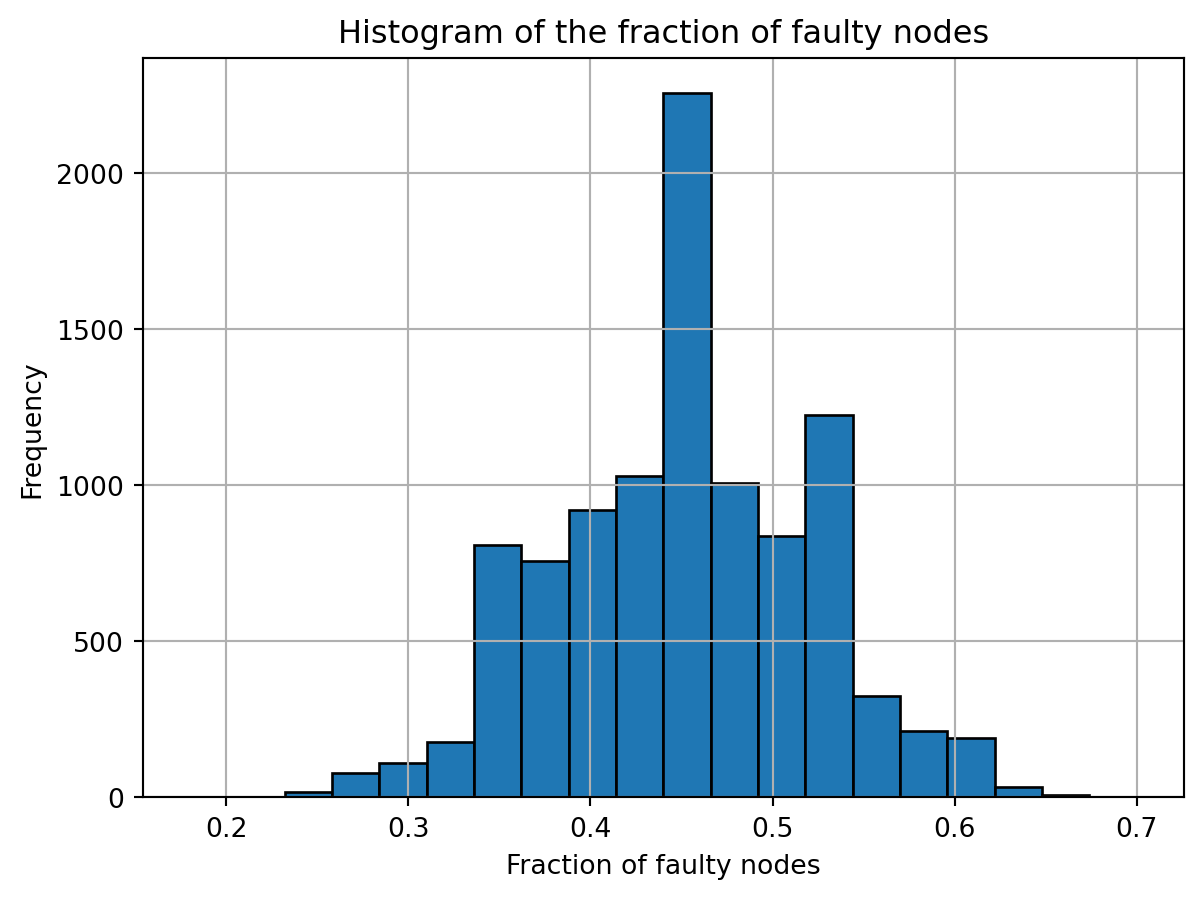
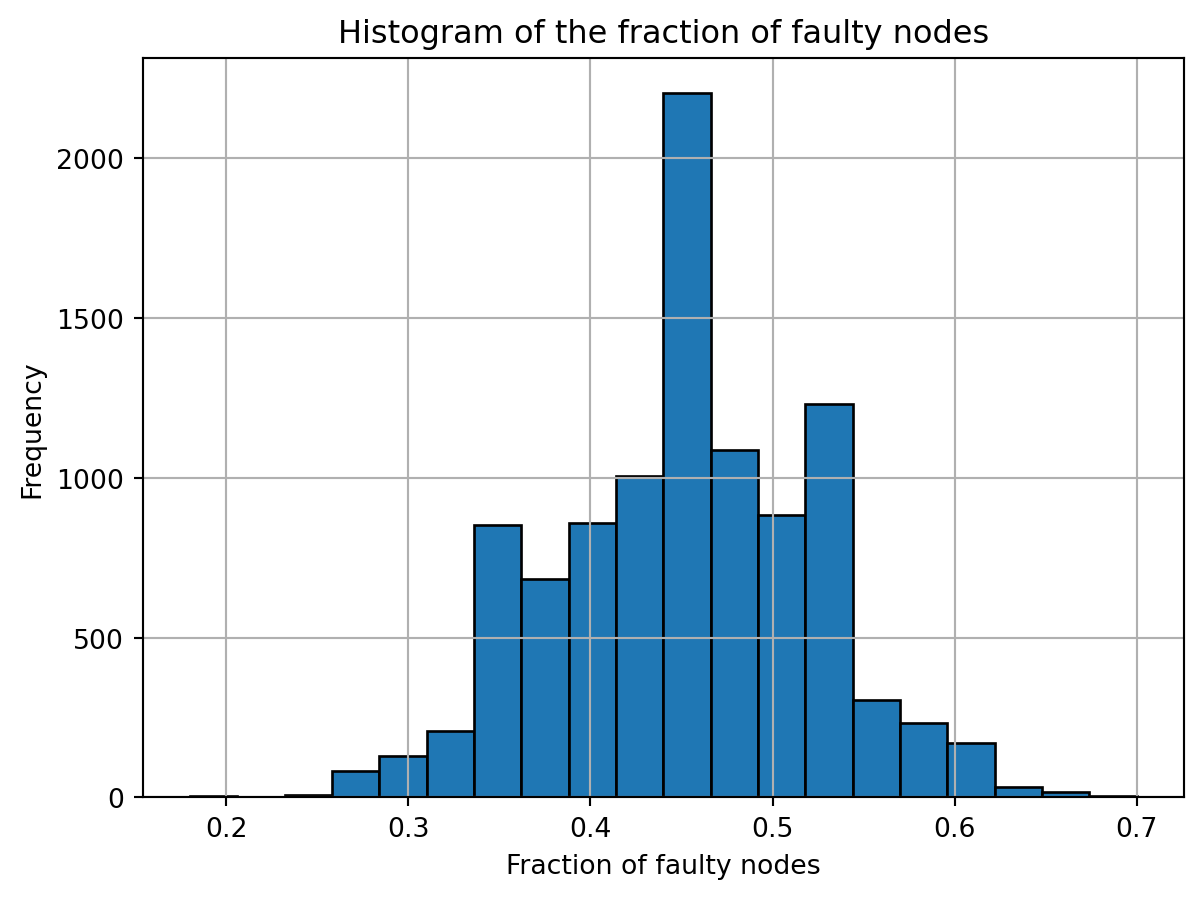
Add files via upload

diff --git a/08-tullock-contest.html b/08-tullock-contest.html
@@ -349,7 +349,7 @@ g_2(x) = 2 \cdot \frac{x}{8/9 + x} - x
   background-color: #ffffff;
 }
 </style>
-<div id="03c01f7c" class="cell" data-execution_count="1">
+<div id="f6c16913" class="cell" data-execution_count="1">
 <details class="code-fold">
 <summary>Show code generating the plot below</summary>
 <div class="sourceCode cell-code" id="cb1"><pre class="sourceCode python code-with-copy"><code class="sourceCode python"><span id="cb1-1"><a href="#cb1-1" aria-hidden="true" tabindex="-1"></a><span class="im">import</span> numpy <span class="im">as</span> np</span>
@@ -457,11 +457,11 @@ Exercise 8.2
 p_1(\mu) = w_1 \cdot \frac{\mu_1}{\mu_1 + \mu_2} - \mu_1 \ \text{ and } \ p_2(\mu) = w_2 \cdot \frac{\mu_2}{\mu_1 + \mu_2} - \mu_2.
 </span> Compute the (unique) pure Nash equilibrium <span class="math inline">\mu = (\mu_1,\mu_2)</span> of this Tullock contest by deriving explicit formulas for <span class="math inline">\mu_1 = \mu_1(w_1,w_2)</span> and <span class="math inline">\mu_2 = \mu_2(w_1,w_2)</span>, i.e., the equilibrium hash rates in terms of <span class="math inline">w_1</span> and <span class="math inline">w_2</span>. You can use the following steps for this:</p>
 <ol type="1">
-<li>Show that if one or both of the <span class="math inline">\mu_i</span> equal zero, then <span class="math inline">\mu = (\mu_1,\mu_2)</span> cannot be a pure Nash equilibrium. <em>Recall that the best response against the all-zeros vector <span class="math inline">\mu_{-i}</span> was defined as a (sufficiently) small number <span class="math inline">\delta &gt; 0</span>.</em></li>
-<li>Argue next that if the game has a pure Nash equilibrium, then it is necessary that the following <em>first-order conditions</em> are satisfied: <span class="math display">
+<li>Show that if one or both of the <span class="math inline">\mu_i</span> equal zero, then <span class="math inline">\mu = (\mu_1,\mu_2)</span> cannot be a pure Nash equilibrium.</li>
+<li>Argue next that <span class="math inline">\mu</span> is a pure Nash equilibrium if and only if the following <em>first-order conditions</em> are satisfied: <span class="math display">
 \frac{\partial p_1}{\partial \mu_1}(\mu) = 0 \ \text{ and }\  \frac{\partial p_2}{\partial \mu_2}(\mu) = 0.
 </span></li>
-<li>Solve the first-order conditions for <span class="math inline">\mu_1</span> and <span class="math inline">\mu_2</span> in terms of <span class="math inline">w_1</span> and <span class="math inline">w_2</span>. Argue that if <span class="math inline">\mu_1(w_1,w_2),\mu_2(w_1,w_2) &gt; 0</span>, then satisfying the first-order conditions is also sufficient for <span class="math inline">(\mu_1,\mu_2)</span> to be a pure Nash equilibrium.</li>
+<li>Solve the first-order conditions for <span class="math inline">\mu_1</span> and <span class="math inline">\mu_2</span> in terms of <span class="math inline">w_1</span> and <span class="math inline">w_2</span>.</li>
 </ol>
 </div>
 </div>
@@ -482,8 +482,9 @@ p_1(\mu) = w_1 \cdot \frac{\mu_1}{\mu_1 + \mu_2} - \mu_1 \ \text{ and } \ p_2(\m
 \mu = (\mu_1,\dots,\mu_{\hat{n}},0,0,\dots,0).
 </span></p>
 <p>There exists an explicit formula known for <span class="math inline">\hat{n}</span>, namely <span id="eq-hat_n"><span class="math display">
-\hat{n} = \max\left\{i \in \mathbb{N} : w_i &gt; \frac{i-2}{\sum_{j=1}^{i-1} \frac{1}{w_j}} \right\}.
-\tag{8.1}</span></span> In other words, <span class="math inline">\hat{n}</span> is the largest index <span class="math inline">i</span> for which the inequality <span class="math inline">w_i &gt; \frac{i-2}{\sum_{j=1}^{i-1} \frac{1}{w_j}}</span> holds.</p>
+\hat{n} = \max\left\{i \in [n] : w_i &gt; \frac{i-2}{\sum_{j=1}^{i-1} \frac{1}{w_j}} \right\}.
+\tag{8.1}</span></span> In other words, <span class="math inline">\hat{n}</span> is the largest index <span class="math inline">i</span> for which the inequality <span class="math inline">w_i &gt; \frac{i-2}{\sum_{j=1}^{i-1} \frac{1}{w_j}}</span> holds. We use the convention that <span class="math inline">\sum_{j=1}^0  \frac{1}{w_j} = 1</span>.</p>
+<p>Note that for any values of <span class="math inline">w_1,\dots,w_n</span> we have <span class="math inline">\hat{n} \geq 2</span>. This corresponds with the fact that in a pure Nash equilibrium, there will always be at least to miners with a strictly positive hash rate.</p>
 <p>Note that <span class="math inline">\hat{n}</span> can be computed using only the input parameters <span class="math inline">w_1, \dots, w_n</span> of the Tullock contest. Also observe that we always have <span class="math inline">\hat{n} \geq 2</span>, because we assume the <span class="math inline">w_i</span> to be strictly positive. Proving the correctness of the formula for <span class="math inline">\hat{n}</span> requires some nontrivial arguments, that we omit here.</p>
 <p>The remaining (strictly positive) values of <span class="math inline">\mu_1,\dots,\mu_{\hat{n}}</span> can be determined by solving the system of equations <span id="eq-system-positive"><span class="math display">
 \frac{\partial p_i}{\partial \mu_i}(\mu) = 0 \ \text{ for } \ i = 1,\dots,\hat{n}
@@ -530,14 +531,8 @@ Exercise 8.4
 <p>To summarize, we have the following theorem.</p>
 <div id="thm-equilibrium-computation" class="theorem">
 <p><span class="theorem-title"><strong>Theorem 8.1 (Equilibrium computation with <span class="math inline">n</span> miners.)</strong></span> Let <span class="math inline">w_1 \geq \dots \geq w_n &gt; 0</span> and <span class="math display">
-\hat{n} = \max\left\{i \in \mathbb{N} : w_i &gt; \frac{i-2}{\sum_{j=1}^{i-1} \frac{1}{w_j}} \right\}.
-</span> <!--
-Let
-$$
-p_i(\mu) = w_i \cdot \frac{\mu_i}{\sum_j \mu_j} - \mu_i
-$$
-be the payoff function of miner $i$ for $i = 1,\dots,n$.
---> Then the (unique) pure Nash equilibrium <span class="math inline">\mu = (\mu_1,\dots,\mu_n)</span> of the Tullock contest is given by <span class="math display">
+\hat{n} = \max\left\{i \in [n] : w_i &gt; \frac{i-2}{\sum_{j=1}^{i-1} \frac{1}{w_j}} \right\}.
+</span> Then the (unique) pure Nash equilibrium <span class="math inline">\mu = (\mu_1,\dots,\mu_n)</span> of the Tullock contest is given by <span class="math display">
 \mu_i = \left\{
 \begin{array}{ll}
 \lambda - \frac{1}{w_i}\lambda^2 &amp; \text{ for } i \leq \hat{n} \\

diff --git a/05-LongestChain.html b/05-LongestChain.html
@@ -624,7 +624,7 @@ Case ii) is essentially a generalization of case i): suppose that the integer $K
 </ul>
 <p>Can we turn this “on expectation” statement into a “with high probability” statement? To gain some intuition, you are invited to experiment with different values of <span class="math inline">\alpha</span> and <span class="math inline">K</span>, using the Python code snippets below.</p>
 <p>To create one such leader sequence, use the following code:</p>
-<div id="dd48ee23" class="cell" data-execution_count="1">
+<div id="3b49fc0e" class="cell" data-execution_count="1">
 <details class="code-fold">
 <summary>Code</summary>
 <div class="sourceCode cell-code" id="cb2"><pre class="sourceCode python code-with-copy"><code class="sourceCode python"><span id="cb2-1"><a href="#cb2-1" aria-hidden="true" tabindex="-1"></a><span class="im">import</span> numpy <span class="im">as</span> np</span>
@@ -646,7 +646,7 @@ Case ii) is essentially a generalization of case i): suppose that the integer $K
 <span id="cb2-17"><a href="#cb2-17" aria-hidden="true" tabindex="-1"></a>    <span class="cf">return</span> samples</span></code><button title="Copy to Clipboard" class="code-copy-button"><i class="bi"></i></button></pre></div>
 </details>
 </div>
-<div id="54822081" class="cell" data-execution_count="2">
+<div id="b062cea5" class="cell" data-execution_count="2">
 <div class="sourceCode cell-code" id="cb3"><pre class="sourceCode python code-with-copy"><code class="sourceCode python"><span id="cb3-1"><a href="#cb3-1" aria-hidden="true" tabindex="-1"></a><span class="co"># Example usage:</span></span>
 <span id="cb3-2"><a href="#cb3-2" aria-hidden="true" tabindex="-1"></a>K <span class="op">=</span> <span class="dv">10</span>      <span class="co"># number of leaders</span></span>
 <span id="cb3-3"><a href="#cb3-3" aria-hidden="true" tabindex="-1"></a>alpha <span class="op">=</span> <span class="fl">0.45</span> <span class="co"># probability of leader being faulty</span></span>
@@ -655,12 +655,12 @@ Case ii) is essentially a generalization of case i): suppose that the integer $K
 <span id="cb3-6"><a href="#cb3-6" aria-hidden="true" tabindex="-1"></a></span>
 <span id="cb3-7"><a href="#cb3-7" aria-hidden="true" tabindex="-1"></a><span class="bu">print</span>(<span class="st">"Fraction of faulty leaders:"</span>, np.<span class="bu">sum</span>(samples)<span class="op">/</span>K)</span></code><button title="Copy to Clipboard" class="code-copy-button"><i class="bi"></i></button></pre></div>
 <div class="cell-output cell-output-stdout">
-<pre><code>Sampled leaders: [0 0 0 0 0 1 1 0 1 1]
+<pre><code>Sampled leaders: [0 0 0 1 1 1 0 0 1 0]
 Fraction of faulty leaders: 0.4</code></pre>
 </div>
 </div>
 <p>If you run the above code several times, you will see that the outcome varies a bit. The following code allows you to run the process <span class="math inline">T</span> times and create a histogram of the fractions of faulty nodes.</p>
-<div id="bcb4f48c" class="cell" data-execution_count="3">
+<div id="e62dacb7" class="cell" data-execution_count="3">
 <details class="code-fold">
 <summary>Code</summary>
 <div class="sourceCode cell-code" id="cb5"><pre class="sourceCode python code-with-copy"><code class="sourceCode python"><span id="cb5-1"><a href="#cb5-1" aria-hidden="true" tabindex="-1"></a><span class="kw">def</span> sample_T_sequences(T, K, alpha):</span>
@@ -699,7 +699,7 @@ Fraction of faulty leaders: 0.4</code></pre>
   background-color: #ffffff;
 }
 </style>
-<div id="fffd1abb" class="cell" data-execution_count="4">
+<div id="0e844e94" class="cell" data-execution_count="4">
 <div class="sourceCode cell-code" id="cb6"><pre class="sourceCode python code-with-copy"><code class="sourceCode python"><span id="cb6-1"><a href="#cb6-1" aria-hidden="true" tabindex="-1"></a><span class="co"># Example usage:</span></span>
 <span id="cb6-2"><a href="#cb6-2" aria-hidden="true" tabindex="-1"></a>T <span class="op">=</span> <span class="dv">10000</span>     <span class="co"># Number of leader sequences</span></span>
 <span id="cb6-3"><a href="#cb6-3" aria-hidden="true" tabindex="-1"></a>K <span class="op">=</span> <span class="dv">50</span>       <span class="co"># Number of leaders per sequence</span></span>
@@ -713,7 +713,7 @@ Fraction of faulty leaders: 0.4</code></pre>
 <span id="cb6-11"><a href="#cb6-11" aria-hidden="true" tabindex="-1"></a><span class="co"># Plot the histogram of fractions</span></span>
 <span id="cb6-12"><a href="#cb6-12" aria-hidden="true" tabindex="-1"></a>plot_histogram(fractions)</span></code><button title="Copy to Clipboard" class="code-copy-button"><i class="bi"></i></button></pre></div>
 <div class="cell-output cell-output-stdout">
-<pre><code>The fraction of leader sequences that are balanced is: 0.7166</code></pre>
+<pre><code>The fraction of leader sequences that are balanced is: 0.7126</code></pre>
 </div>
 <div class="cell-output cell-output-display">
 <div class="quarto-figure quarto-figure-center">

diff --git a/06-ProofofWork.html b/06-ProofofWork.html
@@ -322,14 +322,14 @@ window.Quarto = {
 <h2 data-number="6.3" class="anchored" data-anchor-id="sha-256"><span class="header-section-number">6.3</span> SHA-256</h2>
 <p>Here we give a brief illustration of how hashing works. We will use as example the SHA-256 hash function. SHA stands for Secure Hash Algorithm. The number 256 refers to the number of bits of the output.</p>
 <p>We will use the python <code>hashlib</code> module, which we first need to import.</p>
-<div id="477cabb8" class="cell" data-execution_count="1">
+<div id="306bb7f3" class="cell" data-execution_count="1">
 <details class="code-fold">
 <summary>Code</summary>
 <div class="sourceCode cell-code" id="cb1"><pre class="sourceCode python code-with-copy"><code class="sourceCode python"><span id="cb1-1"><a href="#cb1-1" aria-hidden="true" tabindex="-1"></a><span class="im">import</span> hashlib</span></code><button title="Copy to Clipboard" class="code-copy-button"><i class="bi"></i></button></pre></div>
 </details>
 </div>
 <p>Here is an example of how to use SHA256 to hash a short message. The input message will be ``Decentralized finance is cool!’’ and the output is a bitstring of length 256.</p>
-<div id="3b4c13b2" class="cell" data-execution_count="2">
+<div id="baf3d993" class="cell" data-execution_count="2">
 <div class="sourceCode cell-code" id="cb2"><pre class="sourceCode python code-with-copy"><code class="sourceCode python"><span id="cb2-1"><a href="#cb2-1" aria-hidden="true" tabindex="-1"></a><span class="co"># The message to hash</span></span>
 <span id="cb2-2"><a href="#cb2-2" aria-hidden="true" tabindex="-1"></a>message <span class="op">=</span> <span class="st">"Decentralized finance is cool!"</span></span>
 <span id="cb2-3"><a href="#cb2-3" aria-hidden="true" tabindex="-1"></a></span>
@@ -349,7 +349,7 @@ Length of the bitstring: 256</code></pre>
 </div>
 </div>
 <p>Let us now investigate the key property of hash functions: they look like a random function. In particular, this implies that it is hard to predict the output of the function. To illustrate this, let us hash a second message that is very similar to the first: ``Decentralized finance is cool!!!’’</p>
-<div id="401f30eb" class="cell" data-execution_count="3">
+<div id="1716ac94" class="cell" data-execution_count="3">
 <details class="code-fold">
 <summary>Code</summary>
 <div class="sourceCode cell-code" id="cb4"><pre class="sourceCode python code-with-copy"><code class="sourceCode python"><span id="cb4-1"><a href="#cb4-1" aria-hidden="true" tabindex="-1"></a><span class="co">### Second message </span></span>
@@ -372,7 +372,7 @@ Length of the bitstring: 256</code></pre>
 </div>
 </div>
 <p>If you compare the two strings, you will notice some differences right away. How different are the two strings? If the hash function assigns a random output to every input, then you would expect the two bitstrings to differ in roughly half their entries. Let us use python to count the number of different entries in the two strings.</p>
-<div id="82a98f3a" class="cell" data-execution_count="4">
+<div id="8c857857" class="cell" data-execution_count="4">
 <details class="code-fold">
 <summary>Code</summary>
 <div class="sourceCode cell-code" id="cb6"><pre class="sourceCode python code-with-copy"><code class="sourceCode python"><span id="cb6-1"><a href="#cb6-1" aria-hidden="true" tabindex="-1"></a><span class="kw">def</span> count_differences(bitstring1, bitstring2):</span>
